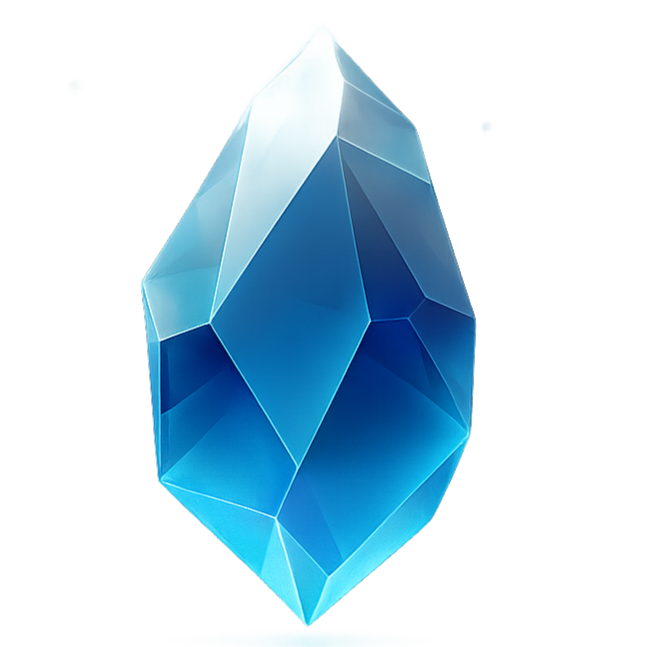
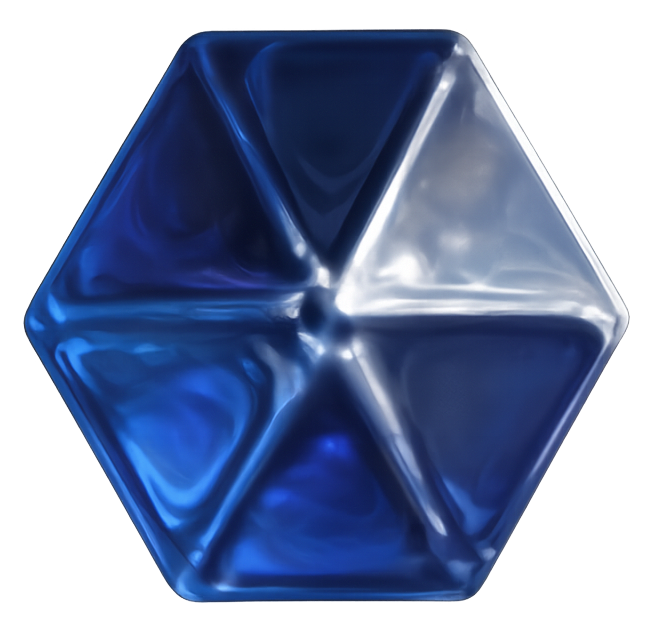
feat: add GameModeSelector component and integrate game mode selection into app flow

diff --git a/test-boardgameio/src/components/GameModeSelector.tsx b/test-boardgameio/src/components/GameModeSelector.tsx
@@ -1,0 +1,77 @@
+import { useState } from "react";
+
+interface GameModeSelectorProps {
+  onModeSelect: (mode: "pvp" | "ai") => void;
+}
+
+const backgroundImage = "assets/menu/main_menu.png";
+
+const GameModeSelector = ({ onModeSelect }: GameModeSelectorProps) => {
+  const [hoveredMode, setHoveredMode] = useState<"pvp" | "ai" | null>(null);
+
+  return (
+    <div
+      className="fixed inset-0 flex items-center justify-center"
+      style={{
+        backgroundImage: `url(${backgroundImage})`,
+        backgroundPosition: "center",
+      }}
+    >
+      {/* Main circular container */}
+      <div className="relative flex flex-col items-center justify-center w-[600px] h-[600px]">
+        {/* Content */}
+        <div className="relative z-10 flex flex-col items-center gap-6 w-[400px]">
+          {/* Play Button */}
+          <button
+            onClick={() => onModeSelect("pvp")}
+            onMouseEnter={() => setHoveredMode("pvp")}
+            onMouseLeave={() => setHoveredMode(null)}
+            className={`
+              relative w-full py-6 px-8
+              bg-[#bda393]
+              rounded-lg
+              border-4 border-[#8d7037]
+              outline-2 outline-black
+              shadow-[0_6px_0_rgba(92,64,51,1),0_8px_20px_rgba(0,0,0,0.6),inset_0_2px_0_rgba(255,255,255,0.3)]
+              transition-all duration-200
+              ${hoveredMode === "pvp" ? "translate-y-1 shadow-[0_4px_0_rgba(92,64,51,1),0_6px_15px_rgba(0,0,0,0.6),inset_0_2px_0_rgba(255,255,255,0.3)] brightness-110" : ""}
+            `}
+          >
+            <span className="text-4xl font-bold text-stone-800 drop-shadow-[0_2px_2px_rgba(255,255,255,0.3)] tracking-wide">
+              Play
+            </span>
+            {/* Bevel effect */}
+            <div className="absolute inset-0 rounded-lg border-t-2 border-l-2 border-white/20 pointer-events-none" />
+            <div className="absolute inset-0 rounded-lg border-b-2 border-r-2 border-black/20 pointer-events-none" />
+          </button>
+
+          {/* Play vs AI Button */}
+          <button
+            onClick={() => onModeSelect("ai")}
+            onMouseEnter={() => setHoveredMode("ai")}
+            onMouseLeave={() => setHoveredMode(null)}
+            className={`
+              relative w-full py-6 px-8
+              bg-[#bda393]
+              rounded-lg
+              border-4 border-[#8d7037]
+              outline-2 outline-black
+              shadow-[0_6px_0_rgba(92,64,51,1),0_8px_20px_rgba(0,0,0,0.6),inset_0_2px_0_rgba(255,255,255,0.3)]
+              transition-all duration-200
+              ${hoveredMode === "ai" ? "translate-y-1 shadow-[0_4px_0_rgba(92,64,51,1),0_6px_15px_rgba(0,0,0,0.6),inset_0_2px_0_rgba(255,255,255,0.3)] brightness-110" : ""}
+            `}
+          >
+            <span className="text-4xl font-bold text-stone-800 drop-shadow-[0_2px_2px_rgba(255,255,255,0.3)] tracking-wide">
+              Play vs AI
+            </span>
+            {/* Bevel effect */}
+            <div className="absolute inset-0 rounded-lg border-t-2 border-l-2 border-white/20 pointer-events-none" />
+            <div className="absolute inset-0 rounded-lg border-b-2 border-r-2 border-black/20 pointer-events-none" />
+          </button>
+        </div>
+      </div>
+    </div>
+  );
+};
+
+export default GameModeSelector;

diff --git a/test-boardgameio/src/game/ai.ts b/test-boardgameio/src/game/ai.ts
@@ -40,13 +40,14 @@ export function enumerateAIMoves(G: GameState, ctx: Ctx): AIMove[] {
   const attackMoves = enumerateAttacks(G, ctx);
   moves.push(...attackMoves);
 
-  // Always add endTurn as a fallback option with low priority
-  moves.push({
-    move: "endTurn",
-    args: [],
-    score: -100, // Very low priority - only use if no other moves available
-    description: "End turn",
-  });
+  if (moves.length === 0) {
+    moves.push({
+      move: "endTurn",
+      args: [],
+      score: -100, // Very low priority - only use if no other moves available
+      description: "End turn",
+    });
+  }
 
   // Score all moves and sort by score (highest first)
   const scoredMoves = moves.map((move) => ({
@@ -58,7 +59,6 @@ export function enumerateAIMoves(G: GameState, ctx: Ctx): AIMove[] {
   scoredMoves.sort((a, b) => b.score - a.score);
 
   // Return only top 10 moves to prevent infinite loops
-  // This ensures endTurn is always available if AI has no good moves
   // console.log("SCORE MOVES", scoredMoves);
   return scoredMoves.slice(0, 10);
 }
@@ -612,7 +612,21 @@ function evaluateEffect(
         const missingHp = player.maxHp - player.hp;
         score += Math.min(missingHp, effect.value) * 3;
       } else if (effect.target === "all-friendly") {
-        score += effect.value * 5; // Healing all is valuable
+        score += effect.value * (G.board[ctx.currentPlayer].length + 1) * 2; // Heal on multiple minions is good
+      } else if (effect.target === "user-select" && target) {
+        if (target.type === "player") {
+          const targetPlayer = G.players[target.player];
+          const missingHp = targetPlayer.maxHp - targetPlayer.hp;
+          score += Math.min(missingHp, effect.value) * 3;
+        } else if (target.type === "card") {
+          const targetCard = G.board[target.player].find(
+            (c) => c.id === target.id,
+          );
+          if (targetCard && targetCard.health && targetCard.maxHealth) {
+            const missingHealth = targetCard.maxHealth - targetCard.health;
+            score += Math.min(missingHealth, effect.value) * 3;
+          }
+        }
       }
       break;
 

diff --git a/test-boardgameio/src/routes/index.tsx b/test-boardgameio/src/routes/index.tsx
@@ -1,12 +1,23 @@
 import { createFileRoute } from "@tanstack/react-router";
+import { useState } from "react";
 import { Hearthstone } from "@/game";
 import { HearthstoneWithAI } from "@/game/AIExample";
+import GameModeSelector from "@/components/GameModeSelector";
 
 export const Route = createFileRoute("/")({
   component: App,
 });
 
 function App() {
-  // return <Hearthstone />;
-  return <HearthstoneWithAI playerID="0" />;
+  const [gameMode, setGameMode] = useState<"pvp" | "ai" | null>(null);
+
+  if (!gameMode) {
+    return <GameModeSelector onModeSelect={setGameMode} />;
+  }
+
+  if (gameMode === "ai") {
+    return <HearthstoneWithAI playerID="0" />;
+  }
+
+  return <Hearthstone />;
 }

diff --git a/test-boardgameio/src/game/AIExample.tsx b/test-boardgameio/src/game/AIExample.tsx
@@ -9,8 +9,9 @@ import { Client } from "boardgame.io/react";
 import { Local } from "boardgame.io/multiplayer";
 import Board from "@/components/Board";
 import { HeathStoneGame } from "./index";
-import { MCTSBot, RandomBot } from "boardgame.io/ai";
+import { MCTSBot } from "boardgame.io/ai";
 import { enumerateAIMoves } from "./ai";
+import type { State } from "boardgame.io";
 
 const delay = (ms: number) => new Promise((resolve) => setTimeout(resolve, ms));
 
@@ -27,7 +28,14 @@ class FastMCTSBot extends MCTSBot {
   }
 
   // Override the internal play method to add a delay
-  async play(state: any, playerID: any) {
+  async play(state: State, playerID: any) {
+    const allPossibleOptions = enumerateAIMoves(state.G, state.ctx);
+
+    console.log(
+      `All available legal moves (${allPossibleOptions.length}):`,
+      allPossibleOptions,
+    );
+
     // 1. Let the original MCTS algorithm instantly calculate the best move
     const action = await super.play(state, playerID);
 
@@ -35,6 +43,7 @@ class FastMCTSBot extends MCTSBot {
     await delay(750);
 
     // 3. Return the move to boardgame.io to be executed
+    console.log("AI chose action:", action.action.payload);
     return action;
   }
 }

diff --git a/test-boardgameio/src/components/Card/index.tsx b/test-boardgameio/src/components/Card/index.tsx
@@ -100,11 +100,19 @@ const Card = ({
           <img
             src={mana_crystal}
             alt="Card Back"
-            className="object-cover w-full h-full absolute scale-130"
+            className="object-cover w-full h-full absolute scale-100"
             // no drag
             draggable="false"
           />
-          <span className="relative z-20">{card.mana}</span>
+          <span
+            className="relative z-20 text-xl font-extrabold"
+            style={{
+              WebkitTextStroke: "1px black",
+              textShadow: "0 1px 0px black",
+            }}
+          >
+            {card.mana}
+          </span>
         </div>
       )}
 

diff --git a/test-boardgameio/src/components/Card/DropDetectCard.tsx b/test-boardgameio/src/components/Card/DropDetectCard.tsx
@@ -108,7 +108,7 @@ const MinionCard = ({ card, playerID, ctx }: Props) => {
       !isAttackingWithArrow &&
       playerID === ctx.currentPlayer
     ) {
-      console.log("Auto-triggering battlecry attack for:", card.id);
+      // console.debug("Auto-triggering battlecry attack for:", card.id);
       const rect = wrapperRef.current?.getBoundingClientRect();
       if (!rect) return;
 
@@ -140,7 +140,7 @@ const MinionCard = ({ card, playerID, ctx }: Props) => {
       !isBattlecryMinion &&
       attackingCardId === card.id
     ) {
-      console.log("Battlecry resolved, clearing attack arrow for:", card.id);
+      // console.debug("Battlecry resolved, clearing attack arrow for:", card.id);
       endAttack();
     }
   }, [

diff --git a/test-boardgameio/src/components/HitNumbers.tsx b/test-boardgameio/src/components/HitNumbers.tsx
@@ -32,8 +32,6 @@ const HitNumbers = () => {
 
     if (newAnimations.length === 0) return; // No new animations to process
 
-    console.log("Processing NEW hit number animations:", newAnimations);
-
     // Calculate positions for new hit numbers only
     const newPositions: HitNumberPosition[] = newAnimations
       .map((anim) => {